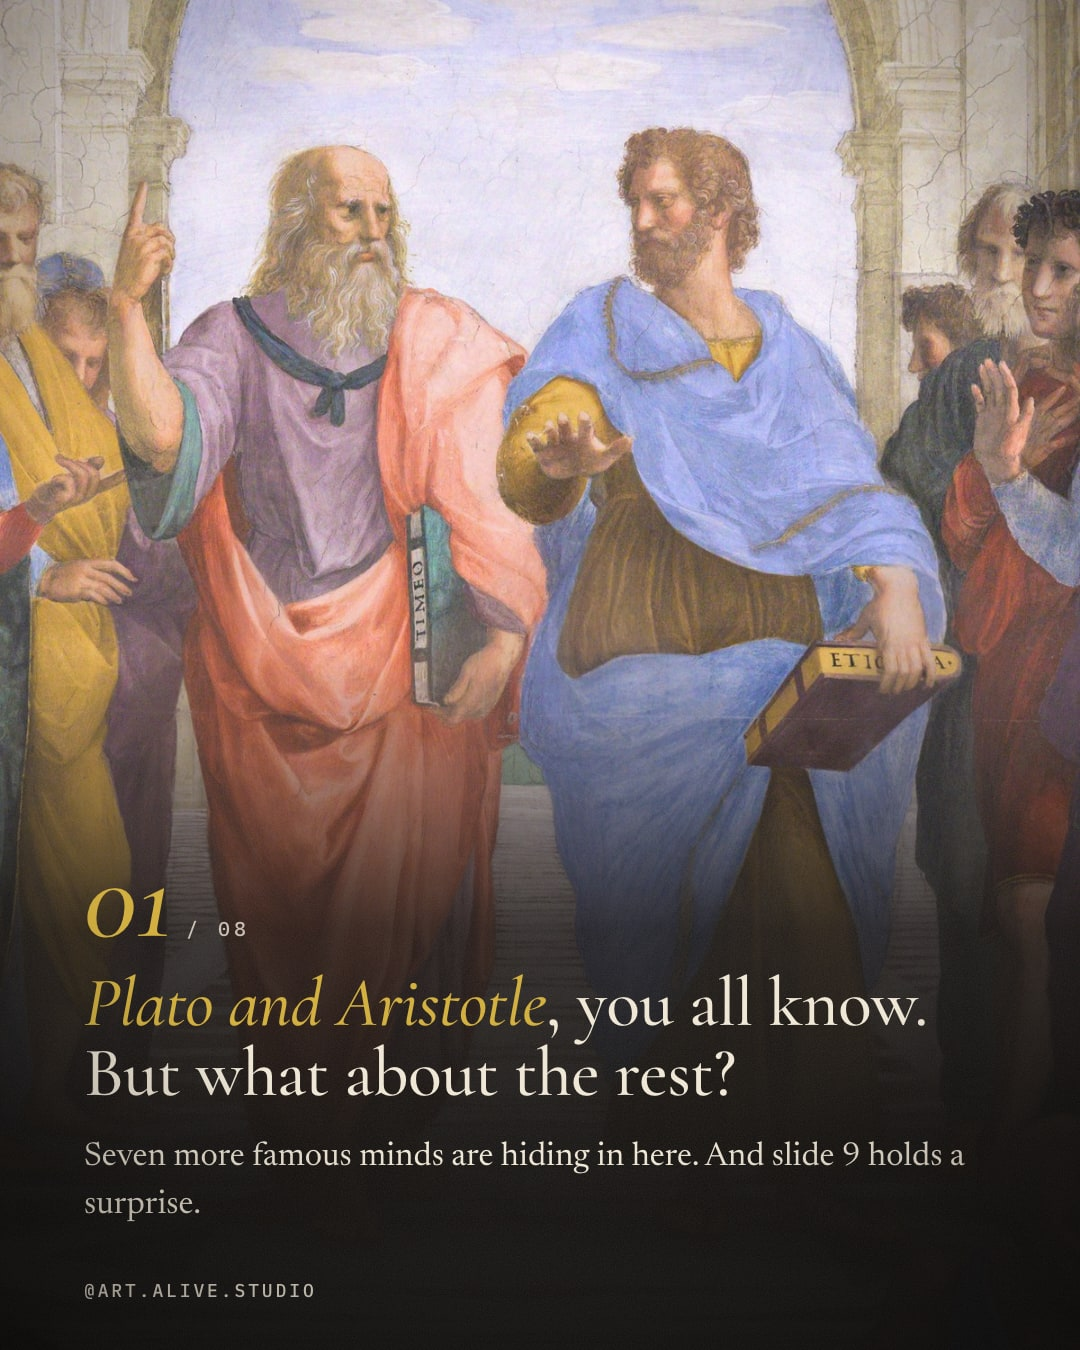
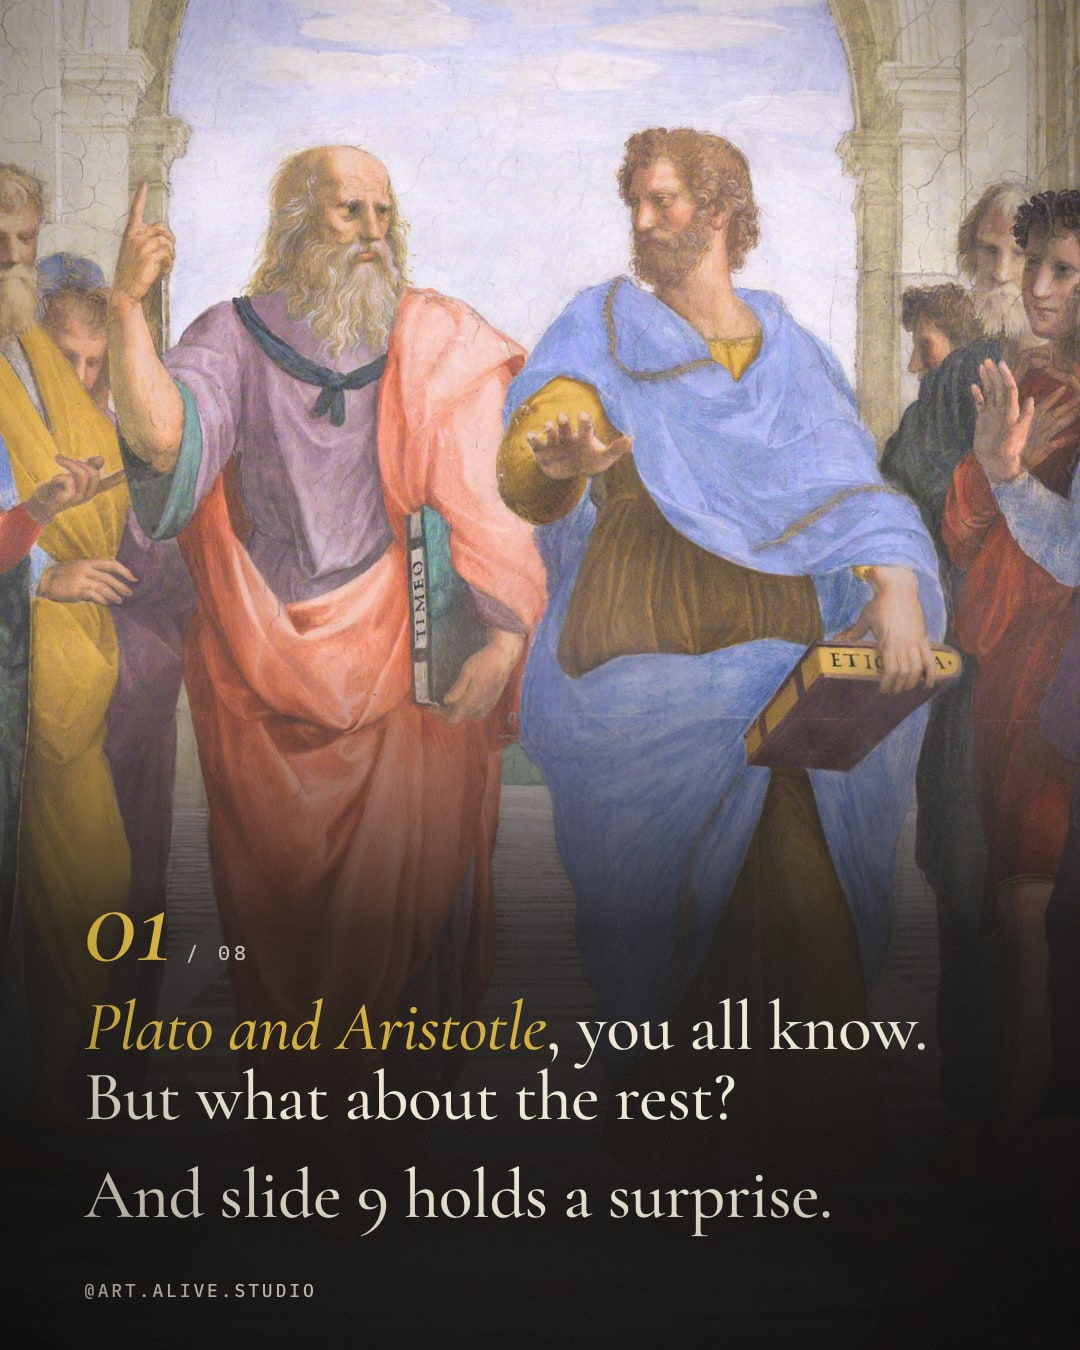
School of Athens slide 2: all big text, just the slide 9 tease

Changed region(s): [[0.0611, 0.6533, 0.8861, 0.9022]]

diff --git a/channels/art-history/carousels/06-raphael-school-of-athens/slides.html b/channels/art-history/carousels/06-raphael-school-of-athens/slides.html
@@ -45,7 +45,7 @@
   <div class="block bottom">
     <div class="no"><b>01</b><span>/ 08</span></div>
     <h2 class="h-m"><em>Plato and Aristotle</em>, you all know. But what about the rest?</h2>
-    <p class="copy">Seven more famous minds are hiding in here. And slide 9 holds a surprise.</p>
+    <h2 class="h-m" style="margin-top:28px">And slide 9 holds a surprise.</h2>
   </div>
 </section>
 
